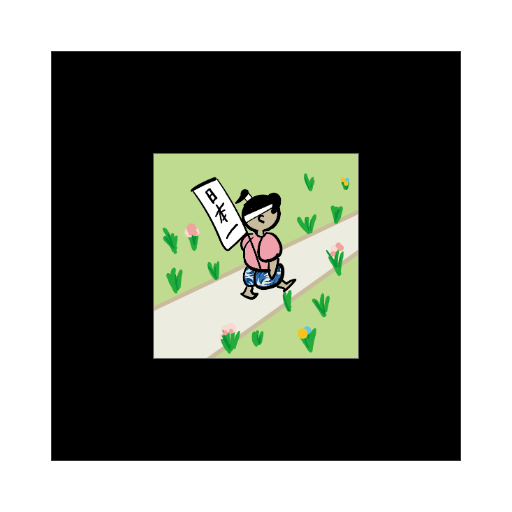
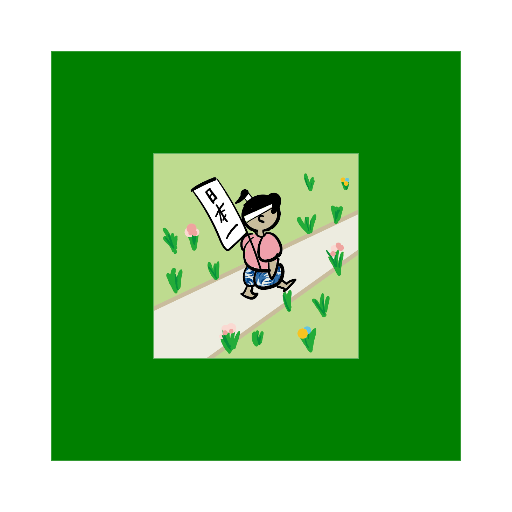
マーカーの色変えた

diff --git a/index.html b/index.html
@@ -18,7 +18,7 @@
 	<a-asset-item id="momotaro" src="walk.gltf"></a-asset-item>
 </a-assets>
 
-<a-marker preset="custom" type='pattern' url="pattern-momo_walk.patt">
+<a-marker preset="custom" type='pattern' url="gpattern-momo_walk.patt">
 	<a-entity gltf-model="#momotaro" rotation="0 0 0" position="0 0 0" animation-mixer="clip:*" ></a-entity>
 </a-marker>
 <a-entity camera></a-entity>
